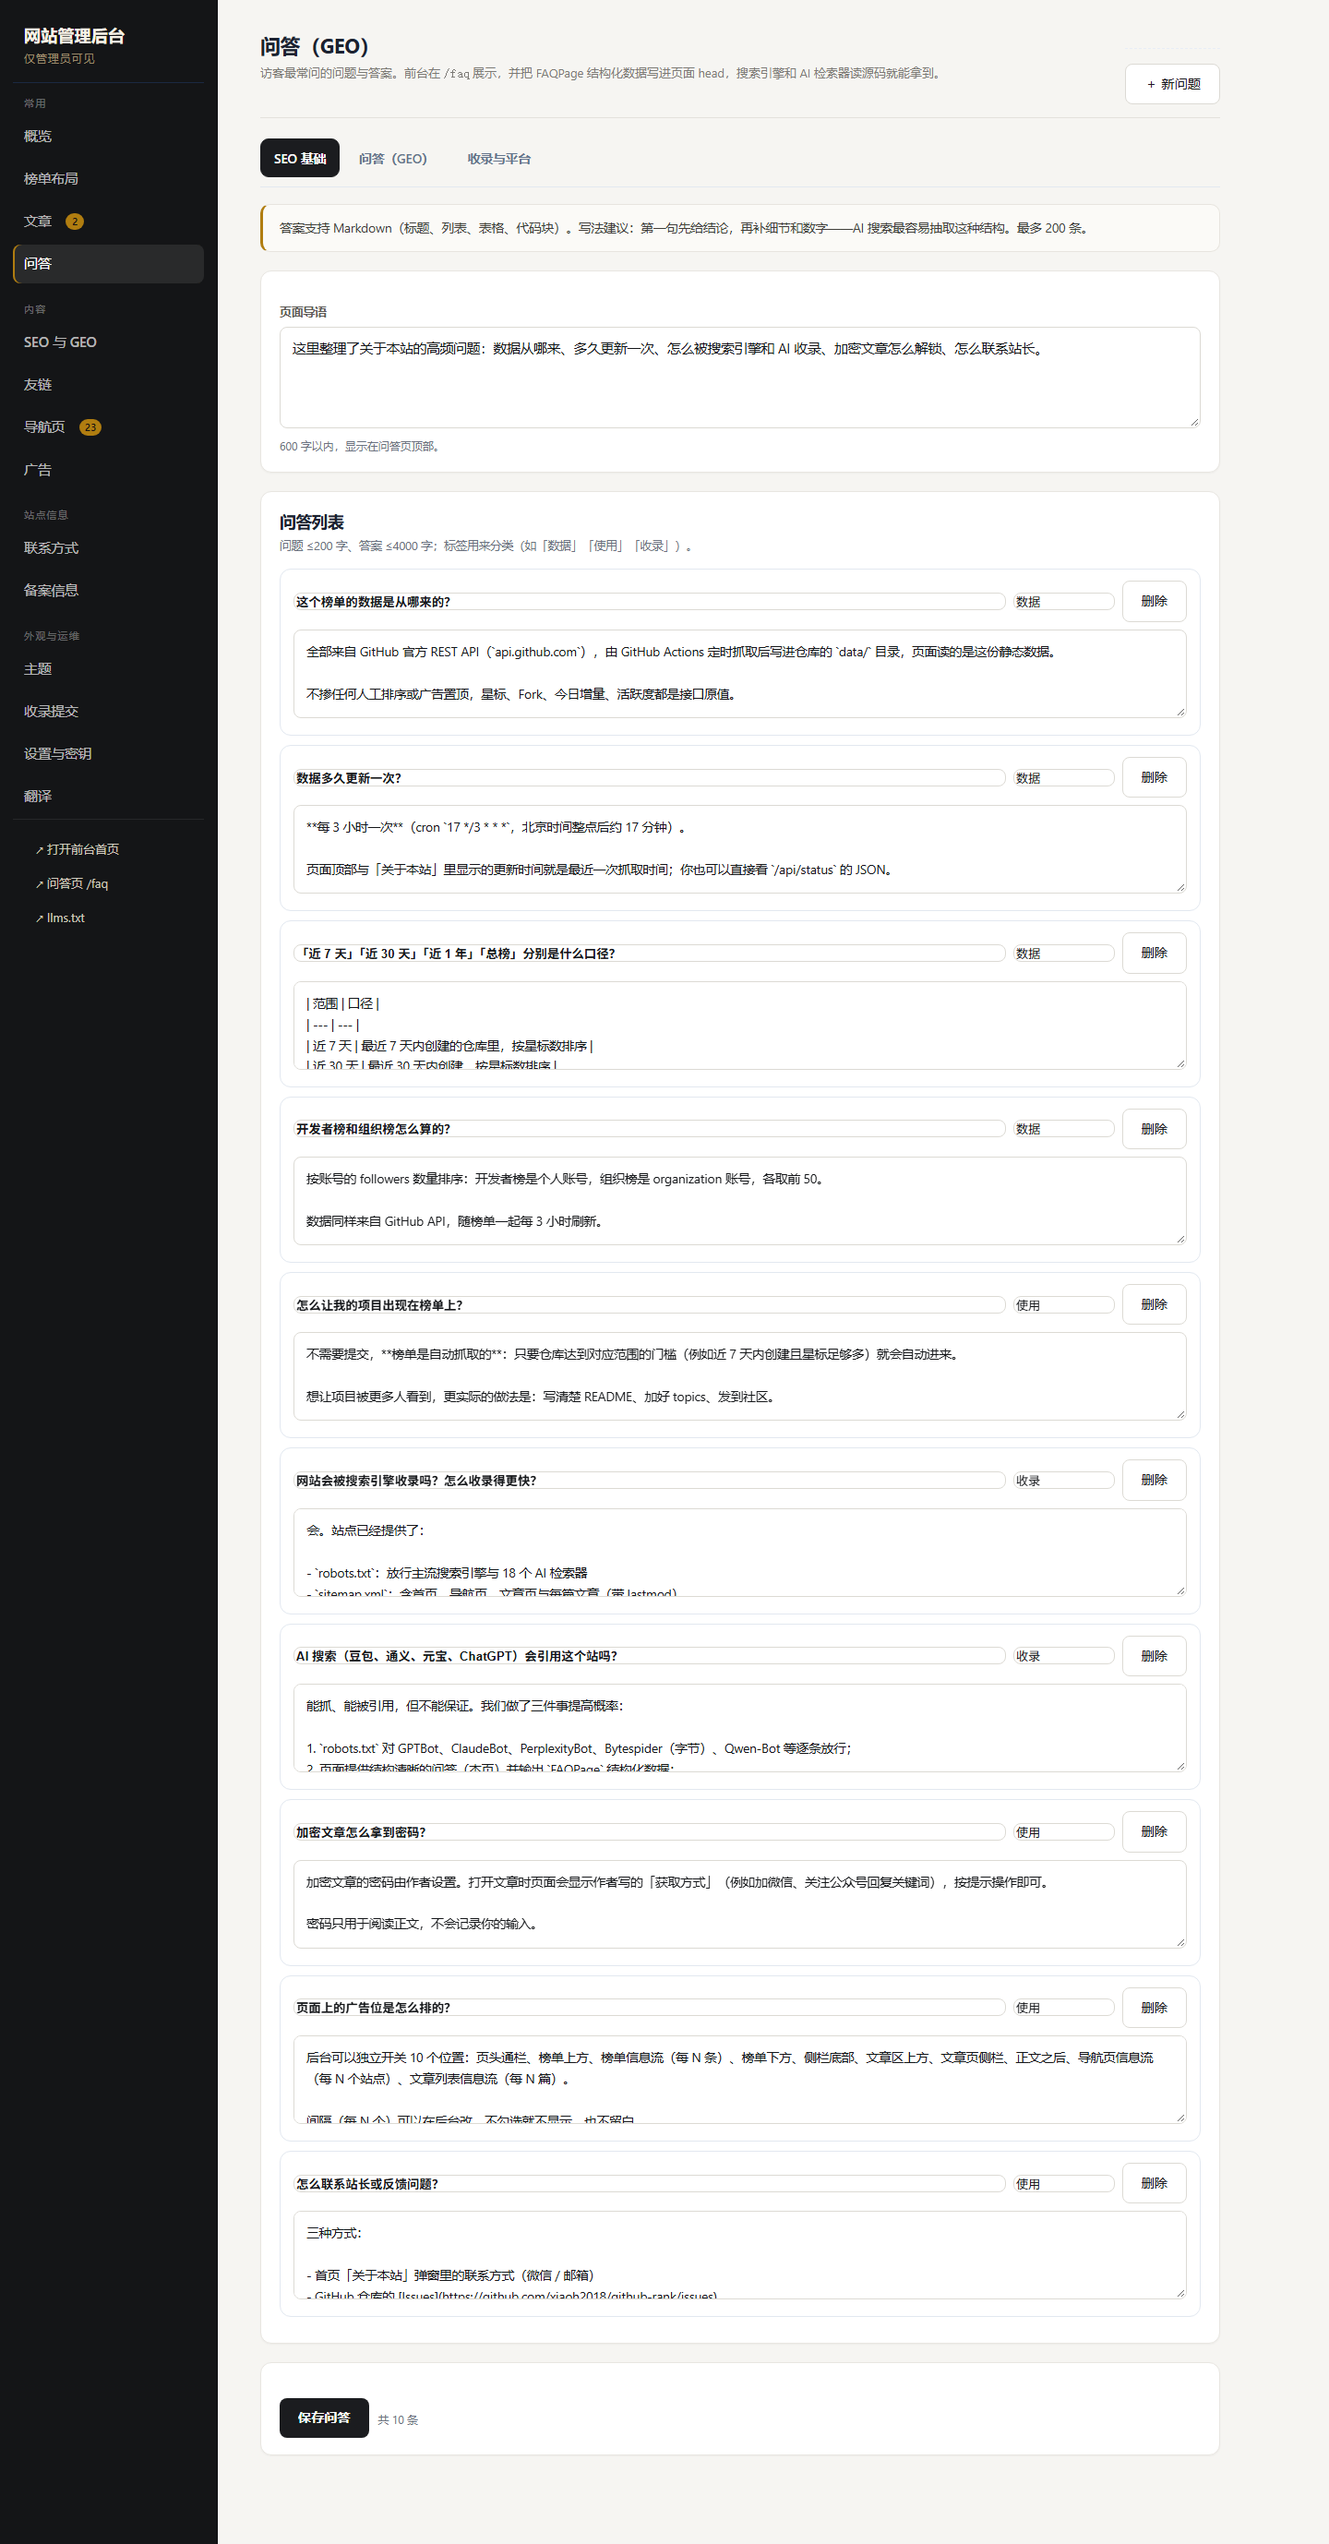
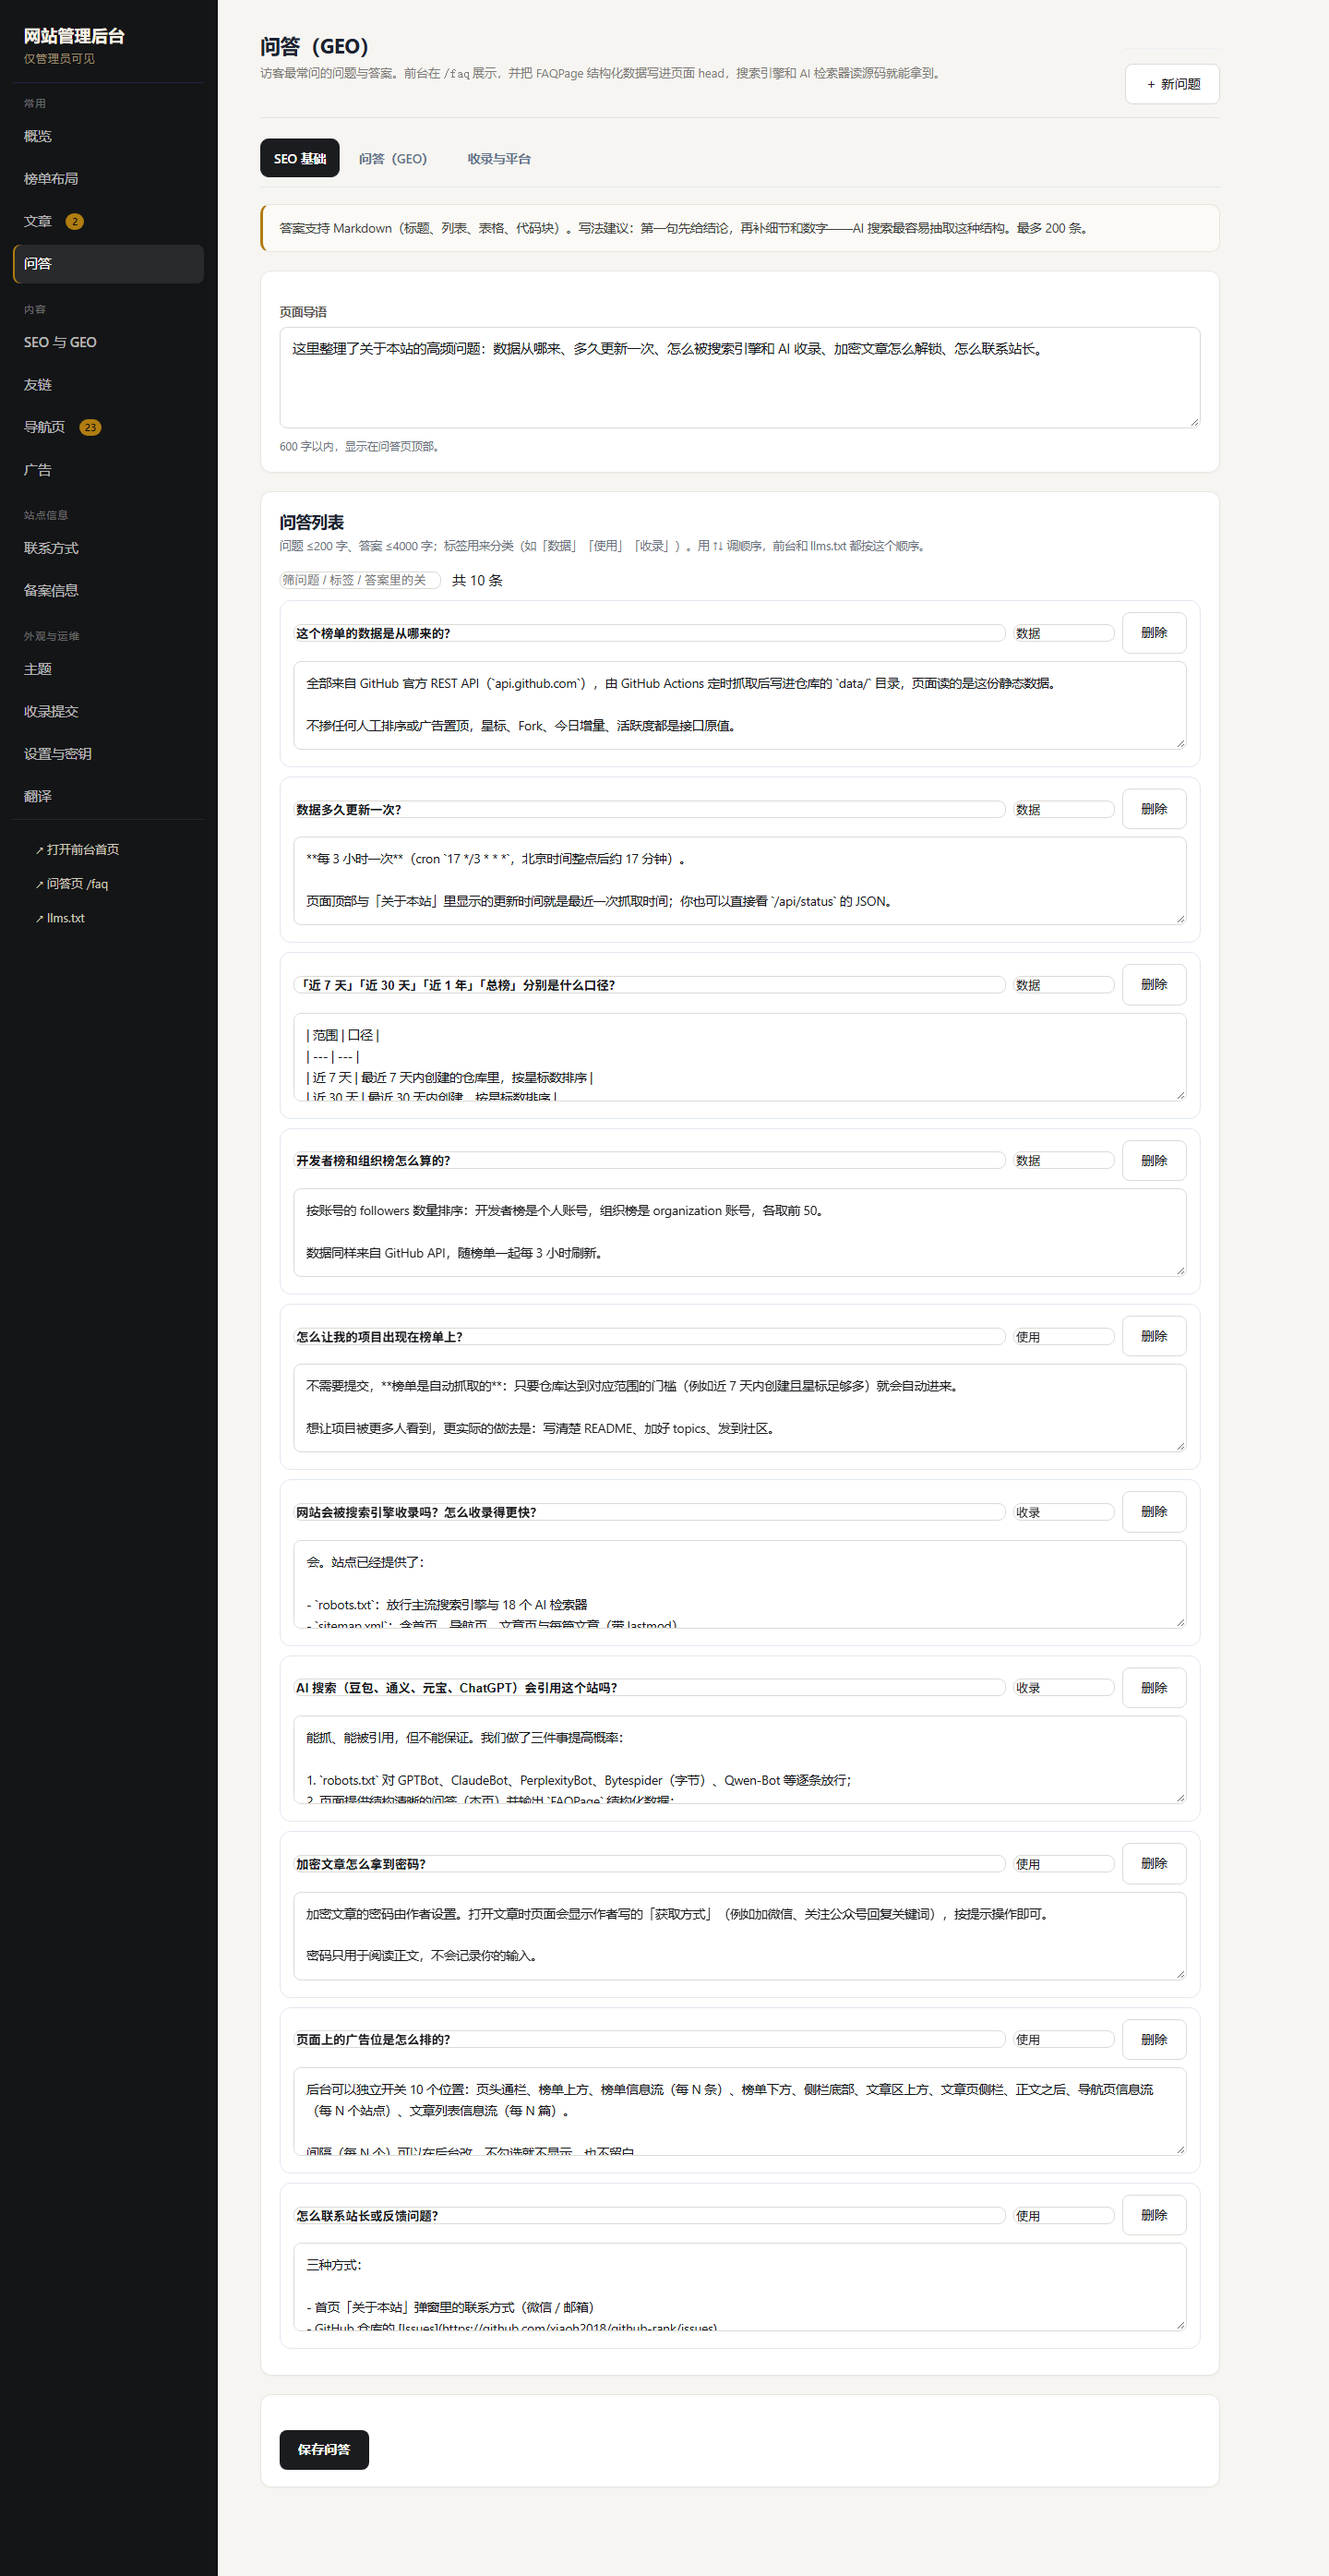
feat: 问答页直达链接+复制、后台问答排序筛选、llms.txt 问答段；ASSET_V/CACHE v65

diff --git a/worker.js b/worker.js
@@ -1410,7 +1410,7 @@ async function injectFaqLd(env, html) {
 
 // 静态资源版本：HTML 里的 /js/*.js 都会被加上 ?v=<这里>，于是能给浏览器一年 immutable；
 // 改了前端就把它 +1（不然用户浏览器会抱着一周的旧 bundle，界面上去点了没反应）
-const ASSET_V = 'v64';
+const ASSET_V = 'v65';
 
 function emptyNav() {
   return { updatedAt: '', groups: [] };
@@ -1656,6 +1656,7 @@ async function llmsTxt(env, origin) {
   const root = site.siteUrl ? String(site.siteUrl).replace(/\/+$/, '') : origin;
   const arts = await rawJson(env, 'data/articles.json');
   const nav = await rawJson(env, 'data/nav.json');
+  const qa = await rawJson(env, 'data/qa.json');
   const lines = [];
   const name = site.siteName || 'GitHub 热门项目排行榜';
   lines.push('# ' + name);
@@ -1695,6 +1696,15 @@ async function llmsTxt(env, origin) {
   lines.push('- 引用榜单时请注明「数据来自 GitHub API，由 ' + name + ' 整理」，并链接到 ' + root + '/');
   lines.push('- 页面自带 300–900 秒缓存，请勿高频轮询；需要最新数据请拉上面的 JS/JSON 文件并带 ?v=<生成时间> 参数');
   lines.push('');
+  const qaItems = (qa && qa.items) || [];
+  if (qaItems.length) {
+    lines.push('## 常见问答');
+    lines.push('');
+    qaItems.slice(0, 12).forEach((it, i) => {
+      if (it && it.q) lines.push('- ' + String(it.q) + ' — ' + root + '/faq#q-' + (i + 1));
+    });
+    lines.push('');
+  }
   lines.push('## 页面');
   lines.push('');
   lines.push('- 榜单首页：' + root + '/ （项目榜，可切语言、时间范围、排序方式；另有开发者榜、组织榜）');
@@ -3621,7 +3631,8 @@ tr:hover td{background:#fcfbf8}
           <div class="hint">600 字以内，显示在问答页顶部。</div>
         </div>
         <div class="card">
-          <div class="card-head"><div><h2>问答列表</h2><p class="desc">问题 ≤200 字、答案 ≤4000 字；标签用来分类（如「数据」「使用」「收录」）。</p></div></div>
+          <div class="card-head"><div><h2>问答列表</h2><p class="desc">问题 ≤200 字、答案 ≤4000 字；标签用来分类（如「数据」「使用」「收录」）。用 ↑↓ 调顺序，前台和 llms.txt 都按这个顺序。</p></div></div>
+          <div class="toolbar" style="margin:0 0 10px"><input type="search" id="qaFilter" placeholder="筛问题 / 标签 / 答案里的关键词" autocomplete="off"><span class="note" id="qaMsg"></span></div>
           <div id="qaList"></div>
         </div>
         <div class="card"><div class="actions"><button type="button" data-save="qa">保存问答</button><span class="hint" id="qaMsg"></span></div></div>
@@ -4908,7 +4919,27 @@ tr:hover td{background:#fcfbf8}
       '<textarea class="qa-a" maxlength="4000" placeholder="答案（支持 Markdown）">' + qesc(it.a) + '</textarea>' +
       '</div>';
   }
+  function bindQaActions() {
+    var box = $('qaList');
+    if (!box || box.dataset.bound === '1') return;
+    box.dataset.bound = '1';
+    box.addEventListener('click', function (e) {
+      var up = e.target.closest('[data-qaup]'), dn = e.target.closest('[data-qadn]');
+      if (up) {
+        readQaForm();
+        var i = +up.getAttribute('data-qaup');
+        if (i > 0) { var t = qaState.items[i - 1]; qaState.items[i - 1] = qaState.items[i]; qaState.items[i] = t; renderQa(); }
+      } else if (dn) {
+        readQaForm();
+        var j = +dn.getAttribute('data-qadn');
+        if (j < qaState.items.length - 1) { var u = qaState.items[j + 1]; qaState.items[j + 1] = qaState.items[j]; qaState.items[j] = u; renderQa(); }
+      }
+    });
+    var f = $('qaFilter');
+    if (f && f.dataset.bound !== '1') { f.dataset.bound = '1'; f.addEventListener('input', renderQa); }
+  }
   function renderQa() {
+    bindQaActions();
     var box = $('qaList');
     if (!box) return;
     if (!qaState.items.length) {

diff --git a/faq.html b/faq.html
@@ -42,6 +42,9 @@ h1{font-size:26px;margin:6px 0 8px;letter-spacing:-.3px}
 .chip.is-on{background:var(--accent-soft);border-color:var(--accent);color:var(--accent);font-weight:600}
 .qalist{display:grid;gap:12px}
 .qa{background:var(--card);border:1px solid var(--line);border-radius:var(--radius);box-shadow:var(--shadow);padding:0;overflow:hidden}
+.qa[open]{border-color:var(--accent);box-shadow:0 10px 26px rgba(0,0,0,.07)}
+.qa summary .qlink{margin-left:auto;flex:none;border:1px solid var(--line);background:var(--card);color:var(--muted);border-radius:8px;padding:2px 7px;font:600 11.5px/1.6 inherit;cursor:pointer;opacity:.75}
+.qa summary .qlink:hover{opacity:1;color:var(--accent);border-color:var(--accent)}
 .qa summary{list-style:none;cursor:pointer;padding:16px 18px;font-weight:700;font-size:15px;display:flex;gap:10px;align-items:flex-start}
 .qa summary::-webkit-details-marker{display:none}
 .qa summary:before{content:"Q";flex:none;width:22px;height:22px;border-radius:7px;background:var(--accent-soft);color:var(--accent);font-weight:800;font-size:12px;display:grid;place-items:center;margin-top:2px}
@@ -187,8 +190,10 @@ html[data-theme="notion"]{
       box.innerHTML = '<div class="empty">没有匹配的问题，换个关键词试试。</div>';
     } else {
       box.innerHTML = list.map(function (it, i) {
-        return '<details class="qa"' + (i === 0 && kw ? ' open' : '') + '>' +
-          '<summary>' + esc(it.q) + (it.tag ? '<span class="qtag">' + esc(it.tag) + '</span>' : '') + '</summary>' +
+        var no = QA.items.indexOf(it) + 1;
+        return '<details class="qa" id="q-' + no + '"' + (i === 0 && kw ? ' open' : '') + '>' +
+          '<summary>' + esc(it.q) + (it.tag ? '<span class="qtag">' + esc(it.tag) + '</span>' : '') +
+          '<button type="button" class="qlink" data-qcopy="' + no + '" title="复制这一条的直达链接"># ' + no + '</button></summary>' +
           '<div class="ans">' + md(it.a) + '</div></details>';
       }).join('');
     }
@@ -204,6 +209,22 @@ html[data-theme="notion"]{
     box.innerHTML = ['all'].concat(tags).map(function (t) {
       return '<button type="button" class="chip' + (t === tag ? ' is-on' : '') + '" data-tag="' + esc(t) + '">' + (t === 'all' ? '全部' : esc(t)) + '</button>';
     }).join('');
+  }
+
+  document.addEventListener('click', function (e) {
+    var b = e.target.closest('[data-qcopy]');
+    if (!b) return;
+    e.preventDefault(); e.stopPropagation();
+    var url = location.origin + '/faq#q-' + b.getAttribute('data-qcopy');
+    var done = function () { b.textContent = '✓ 已复制'; setTimeout(function () { b.textContent = '# ' + b.getAttribute('data-qcopy'); }, 1500); };
+    if (navigator.clipboard) navigator.clipboard.writeText(url).then(done, done); else done();
+  });
+
+  function openFromHash() {
+    var m = /^#q-(\d+)$/.exec(location.hash || '');
+    if (!m) return;
+    var d = document.getElementById('q-' + m[1]);
+    if (d) { d.open = true; d.scrollIntoView({ block: 'center' }); }
   }
 
   document.getElementById('tags').addEventListener('click', function (e) {

diff --git a/sw.js b/sw.js
@@ -1,5 +1,5 @@
 /* Service Worker：缓存页面外壳（HTML/JS/图标），让离线也能打开；GitHub API 不缓存，由页面自己的 localStorage 管理 */
-const CACHE = 'ghrank-shell-v64';
+const CACHE = 'ghrank-shell-v65';
 const SHELL = ['./', 'index.html', 'js/bundle.js', 'js/md.js', 'manifest.json', 'icon.svg'];
 // 只预缓存 meta（约 2KB）。榜单数据按 range 分文件、由页面按需加载，不再在安装时白下几�?KB
 const DATA = 'data/repos-meta.js';

diff --git a/docs/优化建议.md b/docs/优化建议.md
@@ -565,3 +565,17 @@ node scripts/check-worker.mjs      # 本地模拟 Workers 运行时，30+ 项断
 | 导航搜索没法一键清空 | `.navtools` 加「清空」按钮 `#navClear`，有输入才显示，点一下清空并回焦输入框 | `check-inline` OK(18226) |
 
 自检：`check-worker` 45/90 全绿、`check-articles` 通过（跑完自动还原 `data/articles.json`）、`check-inline` 可解析；截图 `nav-page.png`（148KB）、`articles-list.png`。
+
+## §36 第 12 轮：问答页直达链接 + 后台排序/筛选 + llms.txt 问答段
+
+| 项 | 改法 | 验证 |
+| --- | --- | --- |
+| 问答没法单独引用某一条 | 每条 `<details>` 加 `id="q-N"`，summary 右侧加「# N」复制按钮（复制 `/faq#q-N`），进页面带该 hash 会自动展开并滚动到中间 | 截图 `docs/shots/faq-page.png`；`check-worker` PASS |
+| 后台问答顺序改不动、条数多了找不到 | 每行加 ↑↓ 上移/下移（先把表单读回 `qaState` 再交换，避免丢改动）；列表上方加 `#qaFilter` 关键词筛选（问题/标签/答案都搜），标题旁显示「共 N 条（已筛选）」 | 截图 `docs/shots/admin-qa.png`（1440×2790）；PASS |
+| llms.txt 只有页面清单、AI 拿不到问答 | 新增 `## 常见问答` 段，按后台顺序列前 12 条问题并给 `/faq#q-N` 直达链接 | PASS「llms.txt 带常见问答段落」 |
+
+坑：
+1. 往 `check-worker.mjs` 里插断言时用了不存在的 `app.fetch`（该脚本用 `hit(path)` 辅助函数），而且 `faqHtml`/`llms` 这些名字前面已经声明过，直接 `SyntaxError: Identifier already declared`。新块要加前缀（这次 `qaFaq`/`qaLlms`）。
+2. `check-worker.mjs` 是 CRLF，用 `\n` 拼的锚点会命中 0 次；改法是读入归一化 LF、匹配、再按原样写回。
+
+自检：`check-worker` 全部通过（回源 53 / API 91）、`check-inline` OK、`check-admin-script` 可解析。
